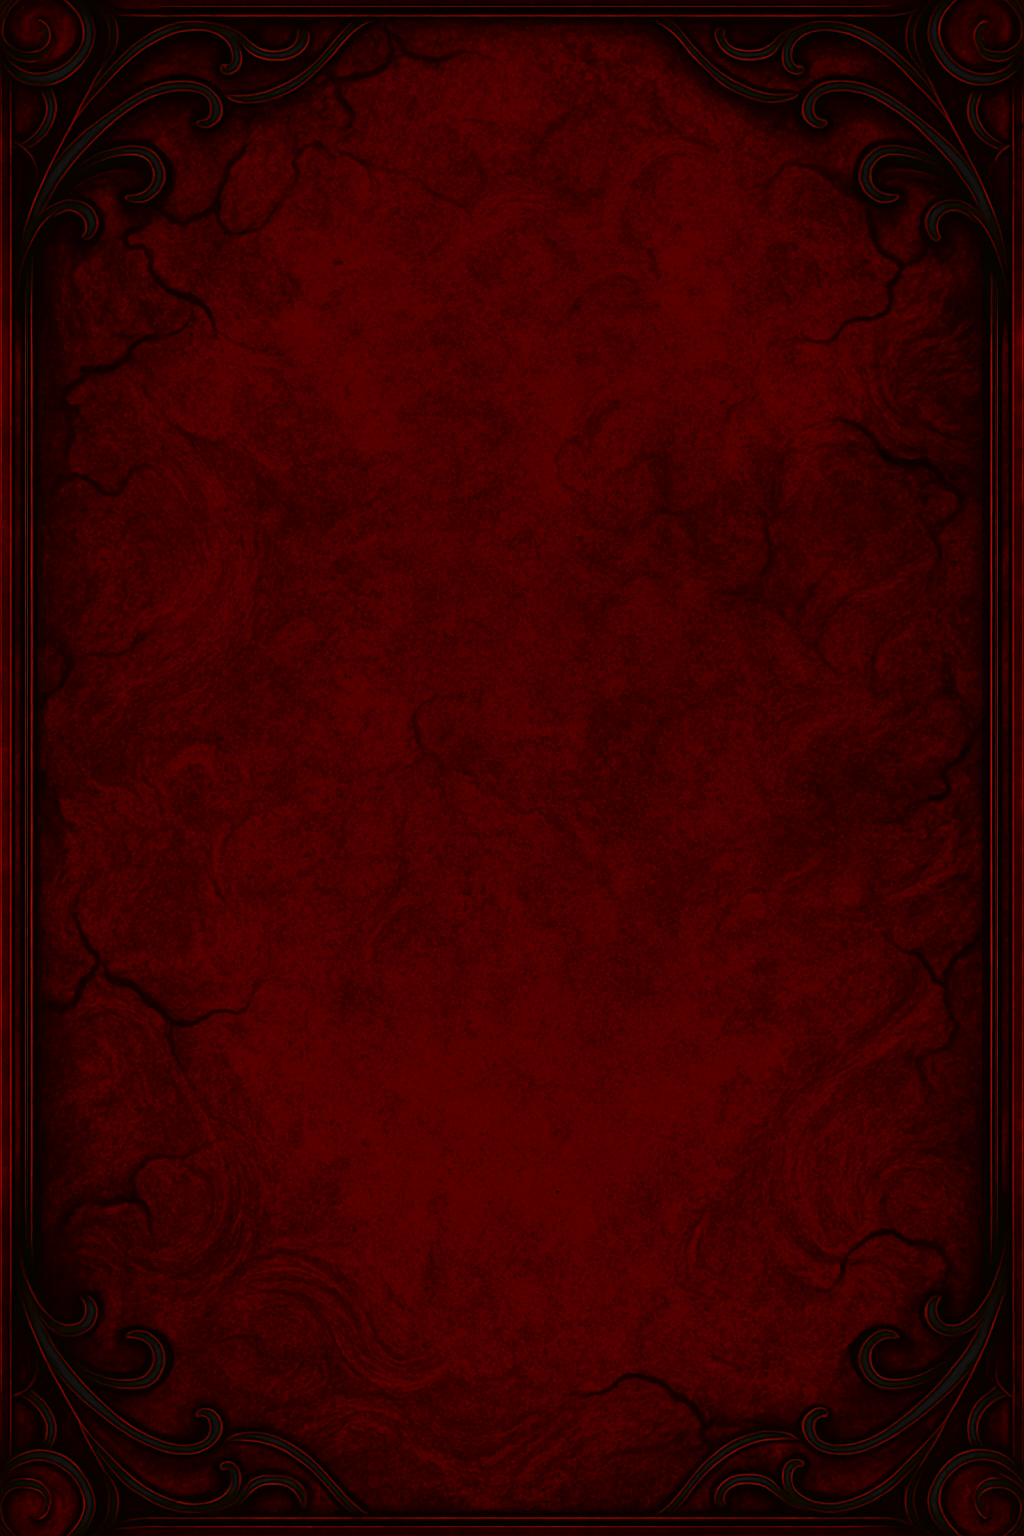
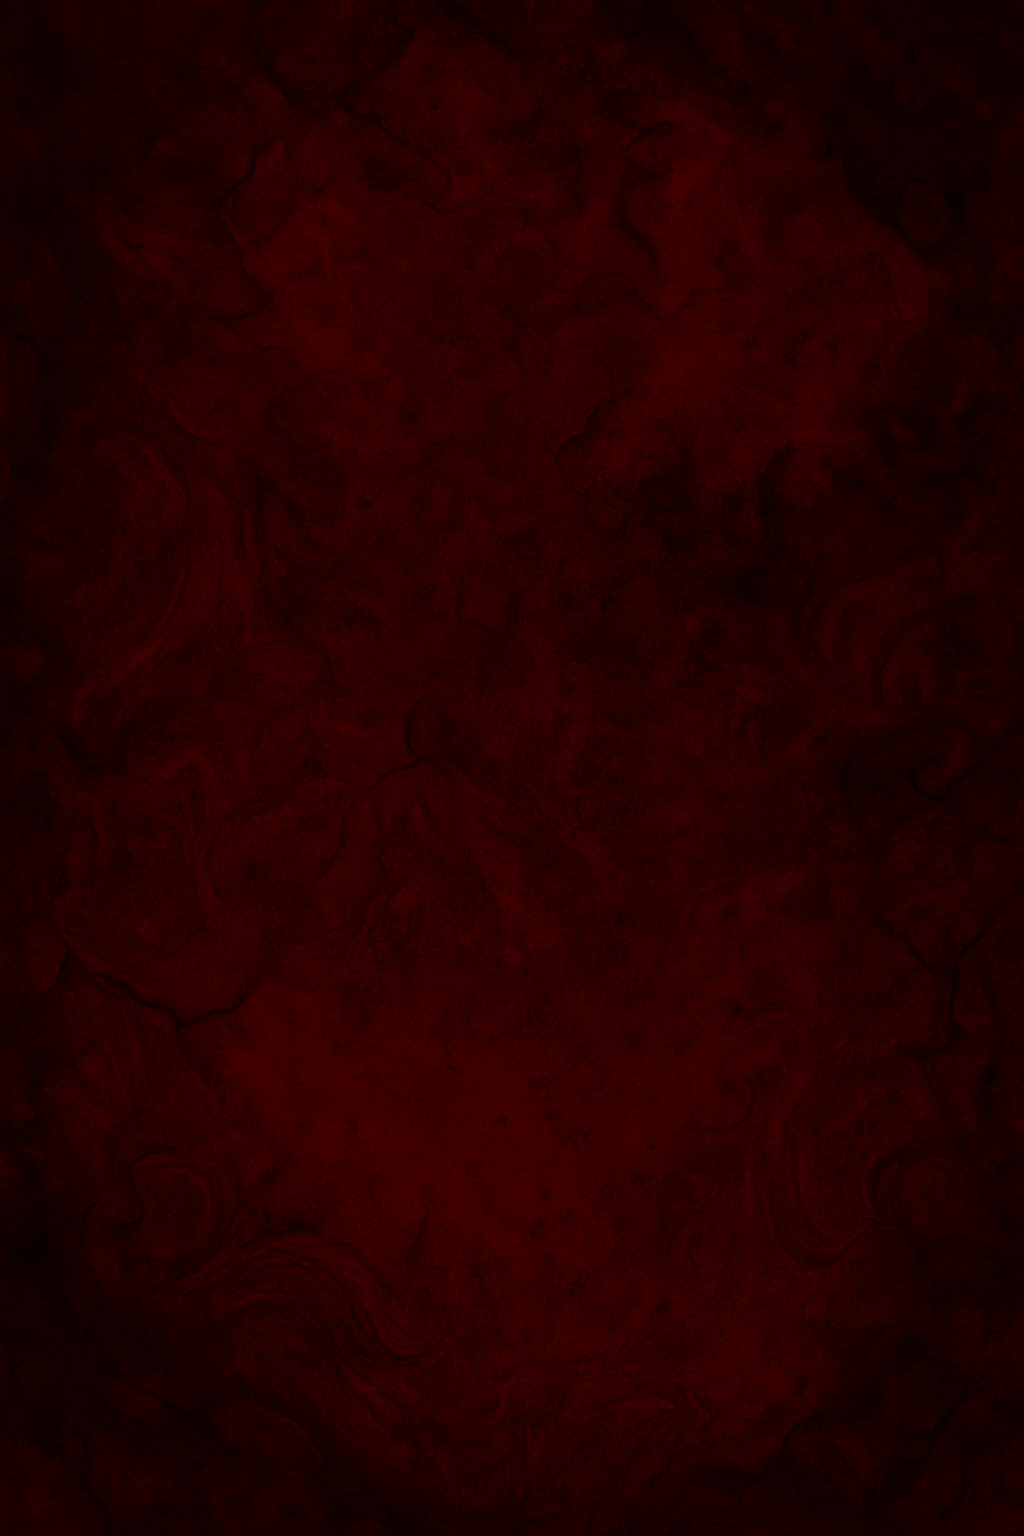
change background

diff --git a/style.css b/style.css
@@ -6,7 +6,7 @@
 }
 
 body {
-  background-color: #1b0000;
+  background-color: #0e0000;
 }
 
 .container {
@@ -14,12 +14,13 @@ body {
   flex-direction: column;
   align-items: center;
   max-width: 500px;
-  margin: 0 auto;
+  margin: 2rem auto;
   background: url(./images/background.png);
   background-repeat: no-repeat;
   background-size: cover;
   gap: 1rem;
   height: 100vh;
+  border-radius: 0.7rem;
 }
 
 ul {
@@ -35,8 +36,3 @@ ul {
     cursor: pointer;
   }
 }
-
-/* #171717 --> black*/
-/* #444444 --> grey */
-/* #DA0037 --> red */
-/* #EDEDED --> light grey*/

diff --git a/index.html b/index.html
@@ -12,11 +12,7 @@
   <body>
     <div class="container">
       <div class="logo">
-        <img
-          src="./images/norwegian-forest-icon.png"
-          alt="cat logo"
-          width="80px"
-        />
+        <img src="./images/cat-img.png" alt="cat logo" width="150px" />
       </div>
       <form>
         <input type="text" id="text-input" placeholder="bread" />
